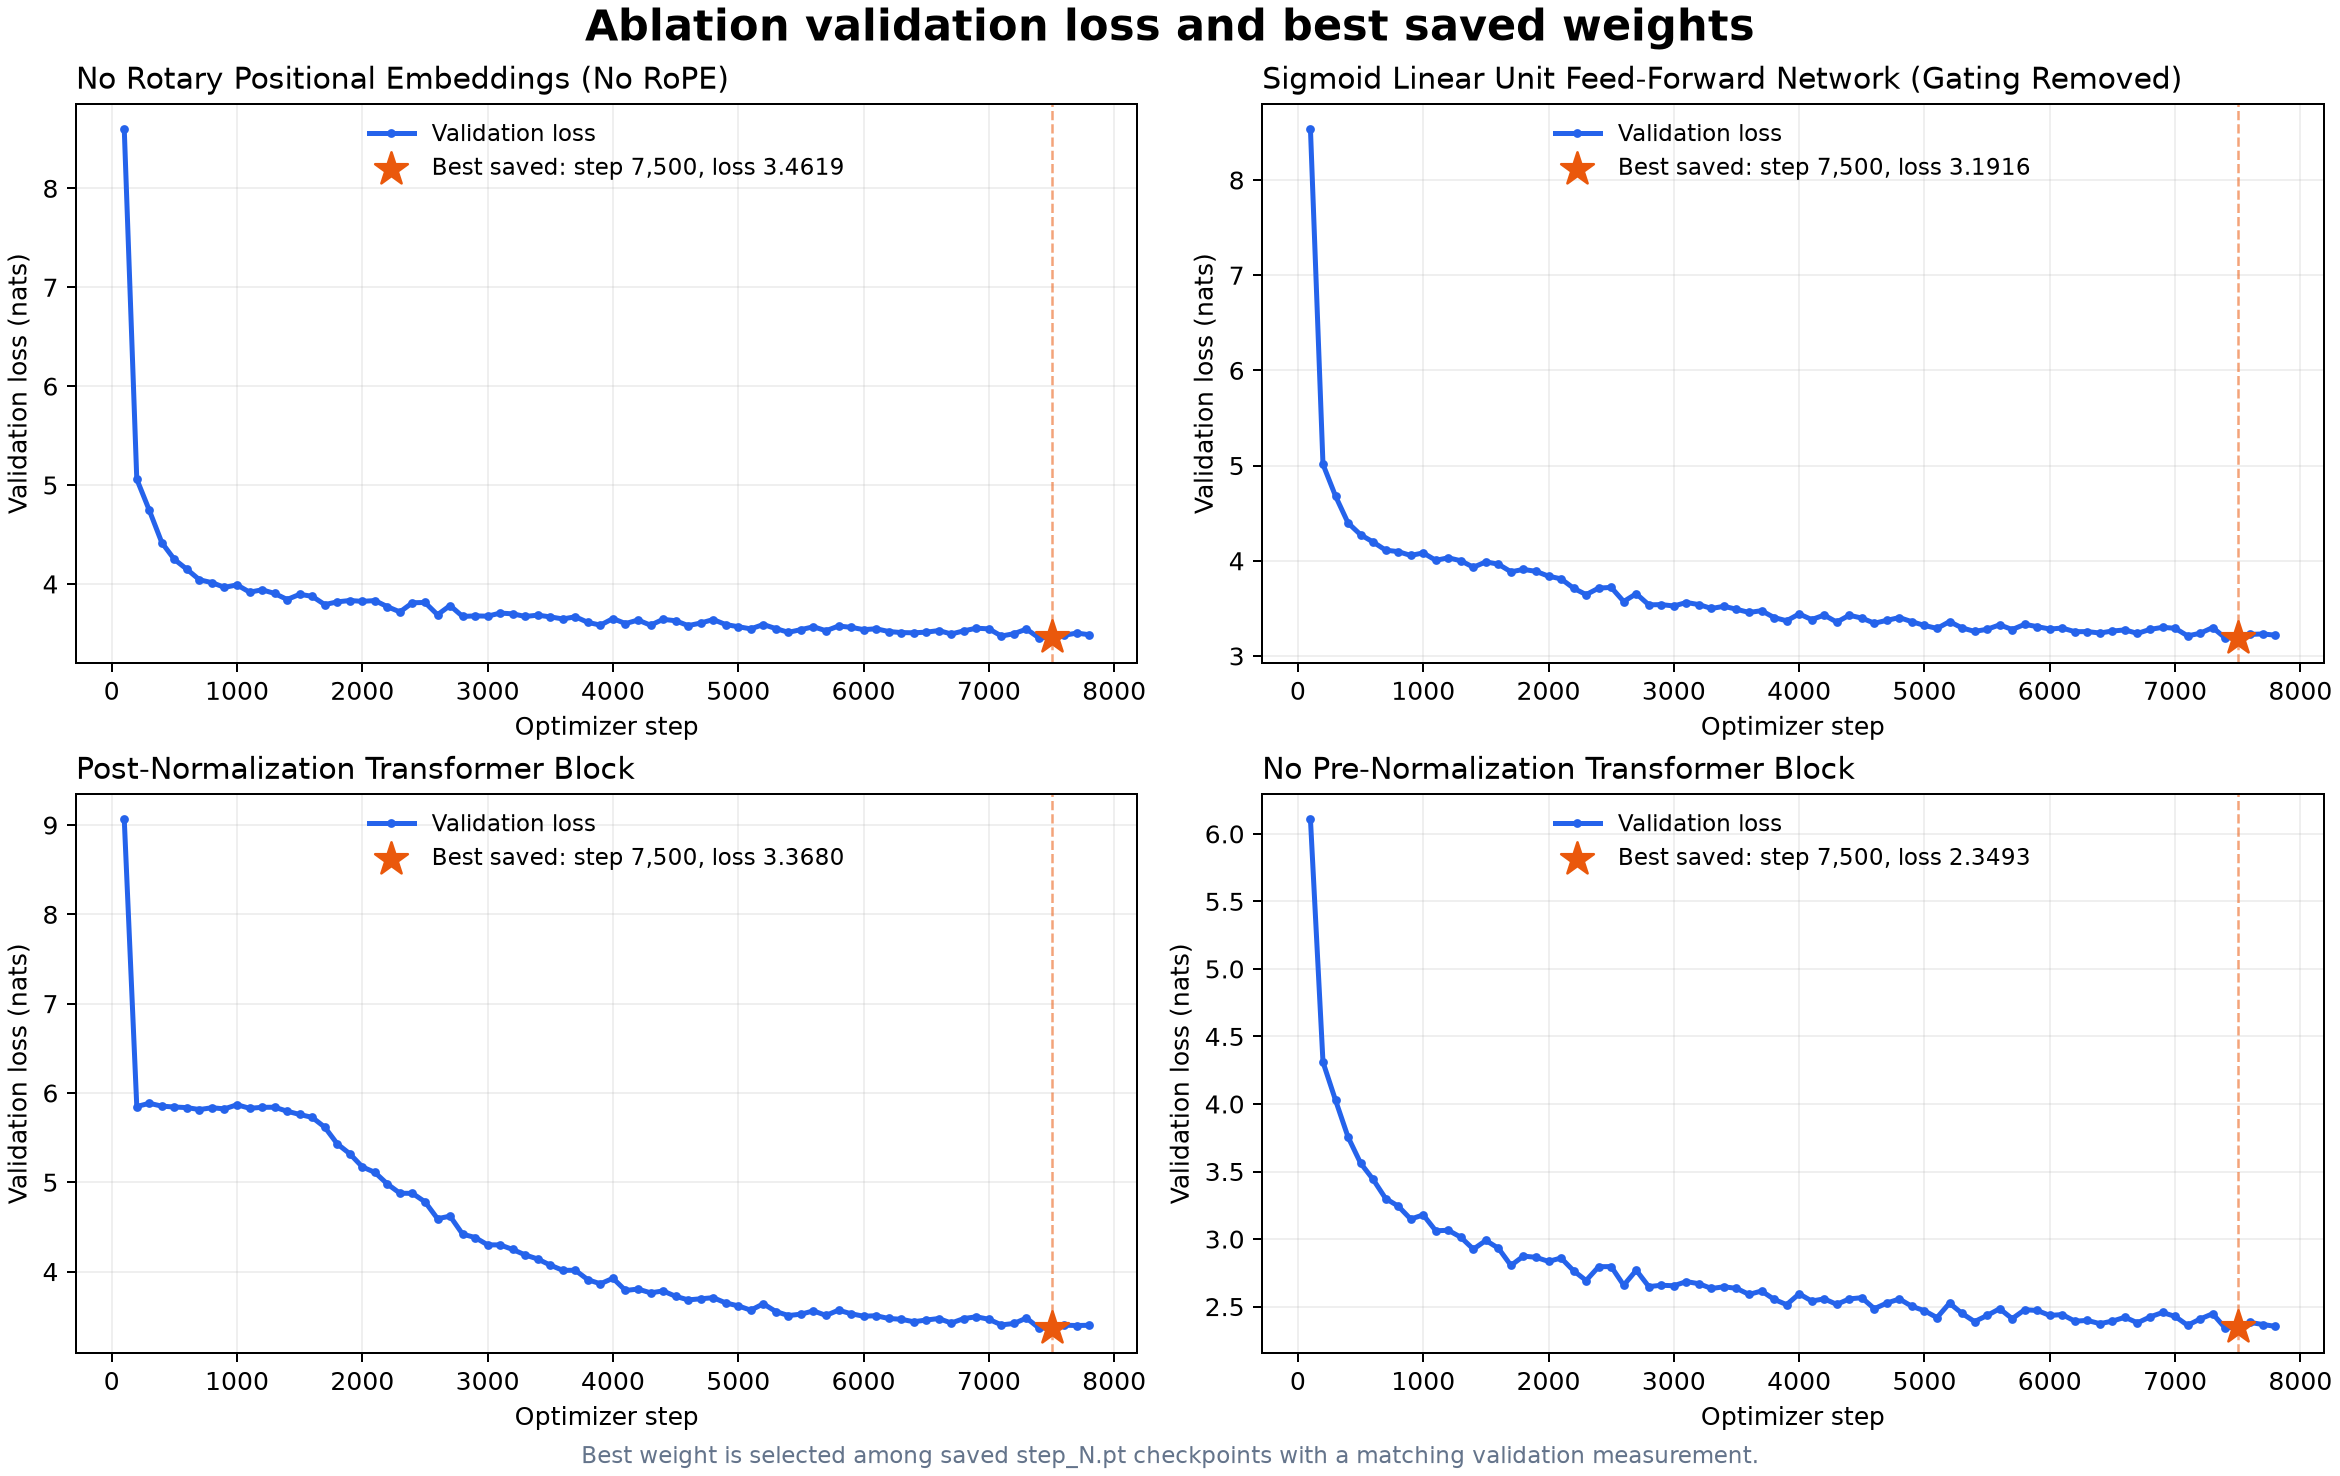
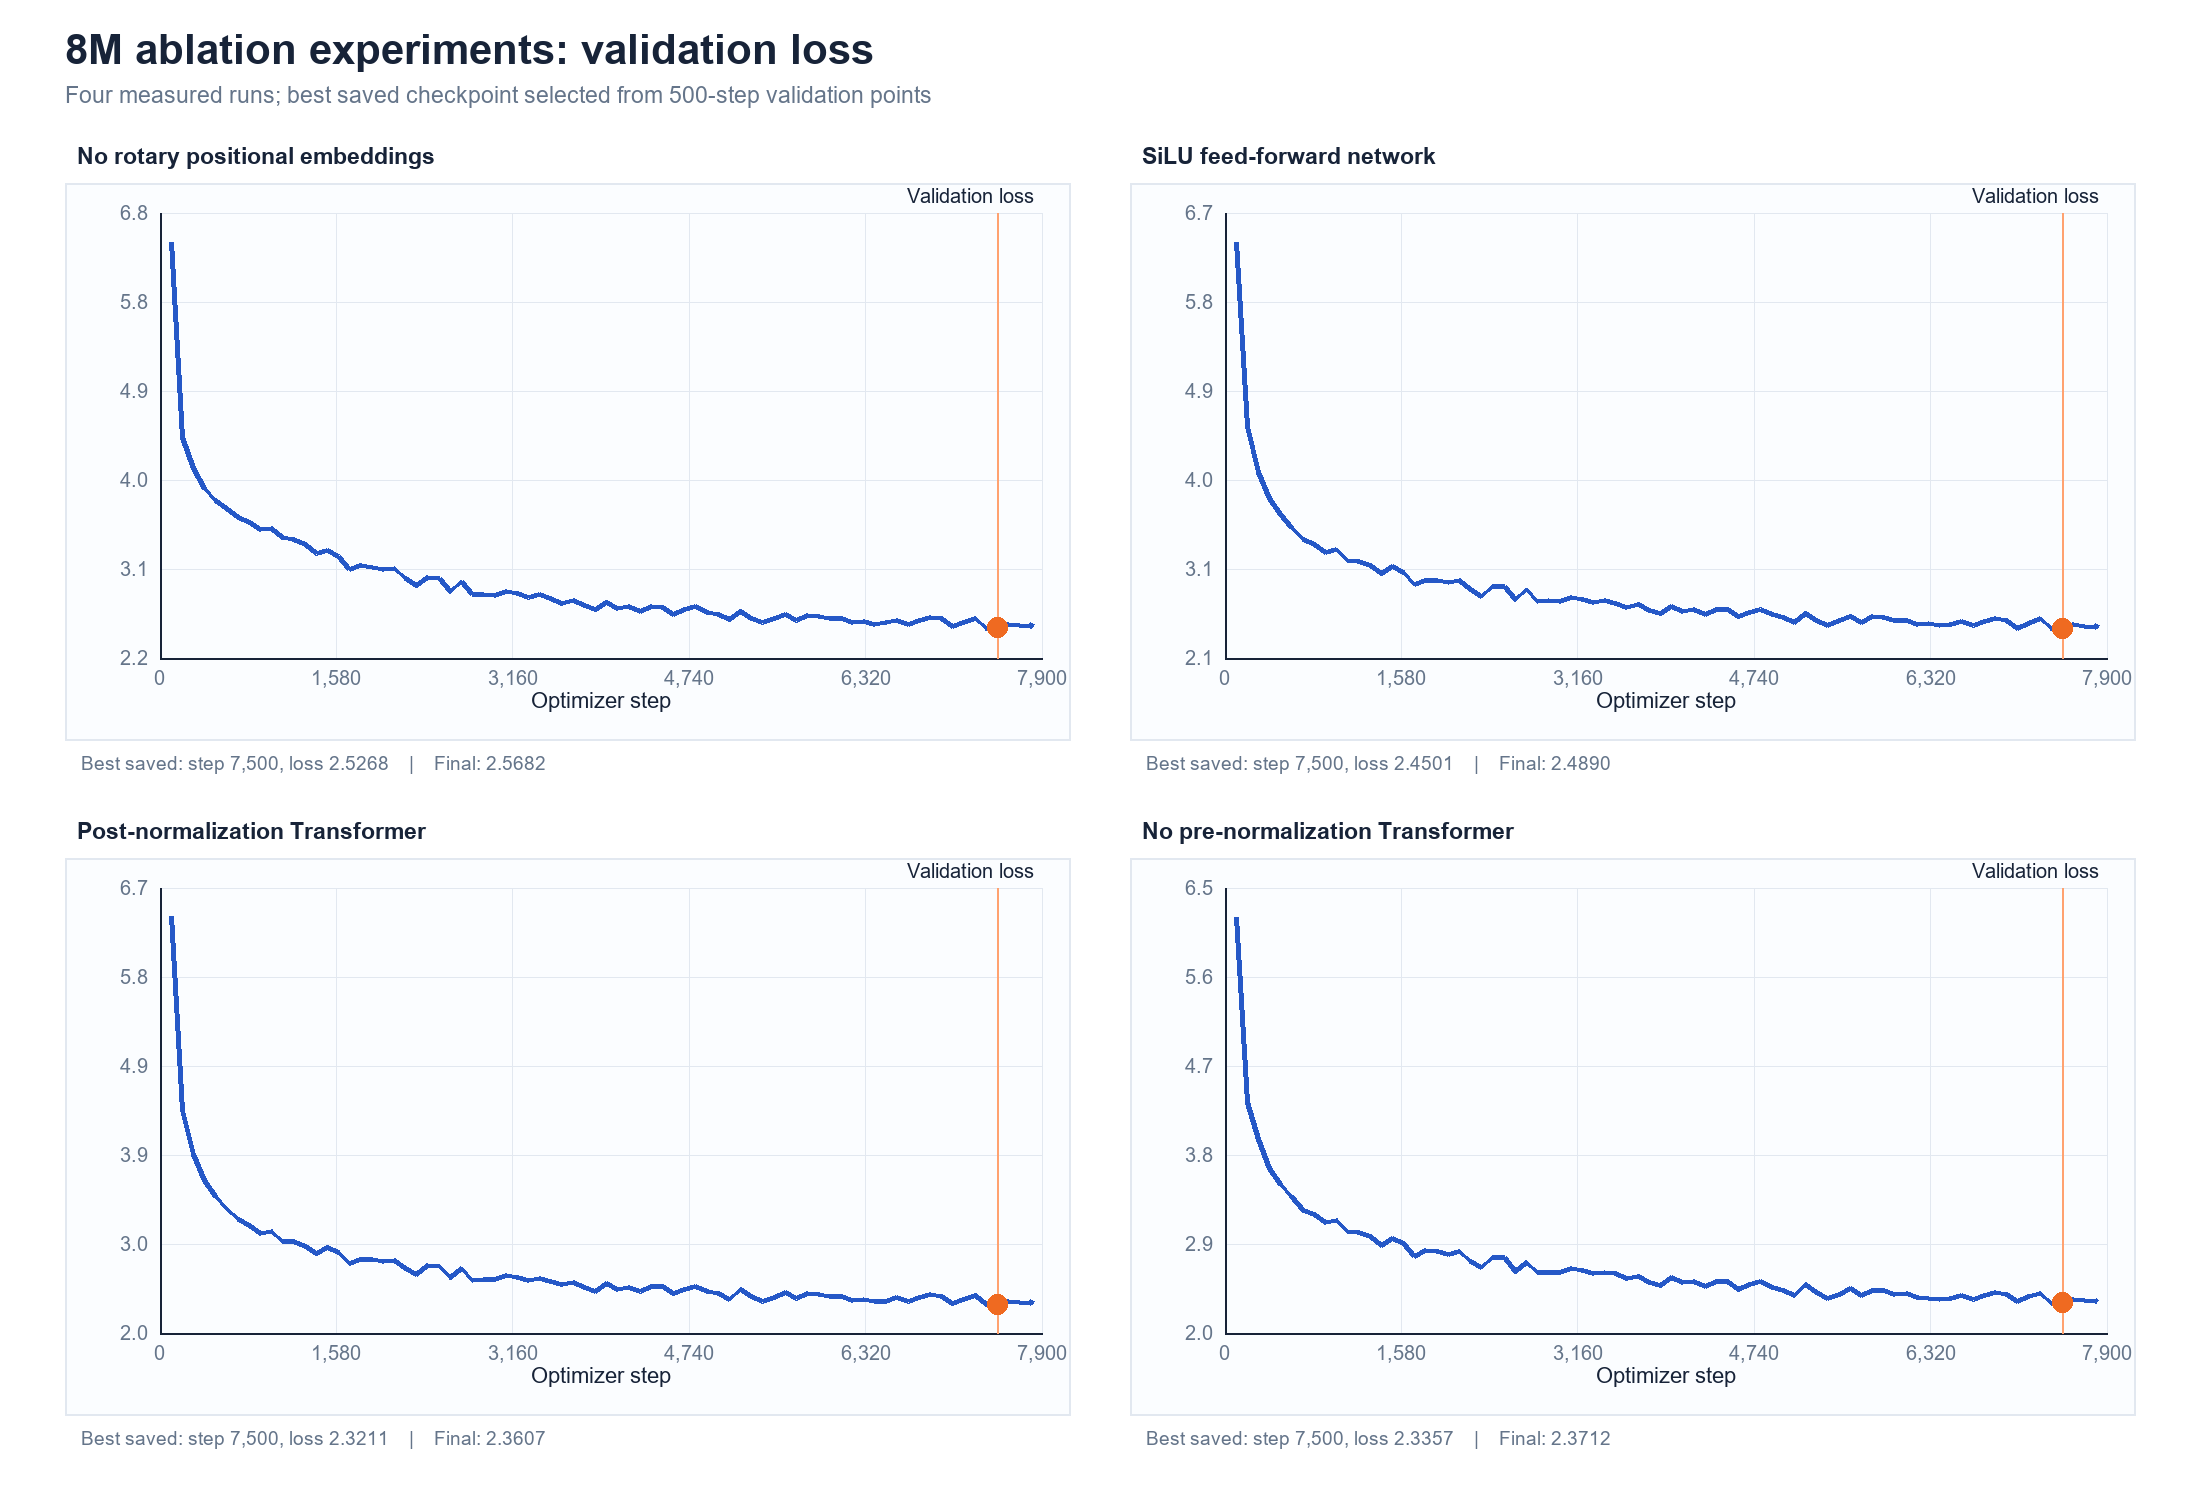
Rebuild 8M baseline and ablation loss figures from supplied logs

diff --git a/README.md b/README.md
@@ -51,24 +51,30 @@
 
 ### 8M 模型 · 16M tokens 训练曲线
 
+根据 `training_log.before_final_eval.csv` 的训练过程和 `training_log.csv` 追加的最终评估重绘。最佳已保存权重在第 **7,500** 步，验证损失为 **2.3294**；第 **7,813** 步最终验证损失为 **2.3727**。图中训练损失的深蓝线为 21 个记录点的移动平均，橙线为原始验证结果。这是单独提供的 8M 运行记录，其结果不并入上方 4 × 4 scaling 网格。
+
 <p align="center">
   <a href="scalling_exp/8m_model/8m_16mtoken/best_checkpoint_training_curve.png"><img src="scalling_exp/8m_model/8m_16mtoken/best_checkpoint_training_curve.png" alt="8M 模型训练至最佳权重的训练与验证损失曲线" width="90%"></a>
 </p>
 
 ### 四组消融实验 · 验证损失曲线
 
+四张单独的曲线分别来自工作区中的 `no_pos_log.csv`、`silu_log.csv`、`post_norm_log.csv` 和 `no_prenormtraining_log.csv`；下图按相同顺序合并展示。橙点标记每 500 步保存一次的权重中验证损失最低的一次。
+
 <p align="center">
   <a href="ablation/best_checkpoint_loss_curves.png"><img src="ablation/best_checkpoint_loss_curves.png" alt="四组消融实验的验证损失曲线" width="100%"></a>
 </p>
 
+单独查看：[无旋转位置编码](ablation/no_rope_loss_curve.png) · [SiLU 前馈网络](ablation/silu_loss_curve.png) · [后归一化](ablation/post_norm_loss_curve.png) · [无预归一化](ablation/no_pre_norm_loss_curve.png)。
+
 ### 消融实验对比
 
-| 实验设置 | 最佳已保存权重的验证损失 |
-| --- | ---: |
-| 无旋转位置编码 | 3.4619 |
-| Sigmoid Linear Unit 前馈网络 | 3.1916 |
-| 后归一化 Transformer 块 | 3.3680 |
-| 无预归一化 Transformer 块 | 2.3493 |
+| 实验设置 | 最佳已保存权重的验证损失（第 7,500 步） | 最终验证损失（第 7,813 步） |
+| --- | ---: | ---: |
+| 无旋转位置编码 | 2.5268 | 2.5682 |
+| Sigmoid Linear Unit 前馈网络 | 2.4501 | 2.4890 |
+| 后归一化 Transformer 块 | 2.3211 | 2.3607 |
+| 无预归一化 Transformer 块 | 2.3357 | 2.3712 |
 
 ## 脚本用途
 
